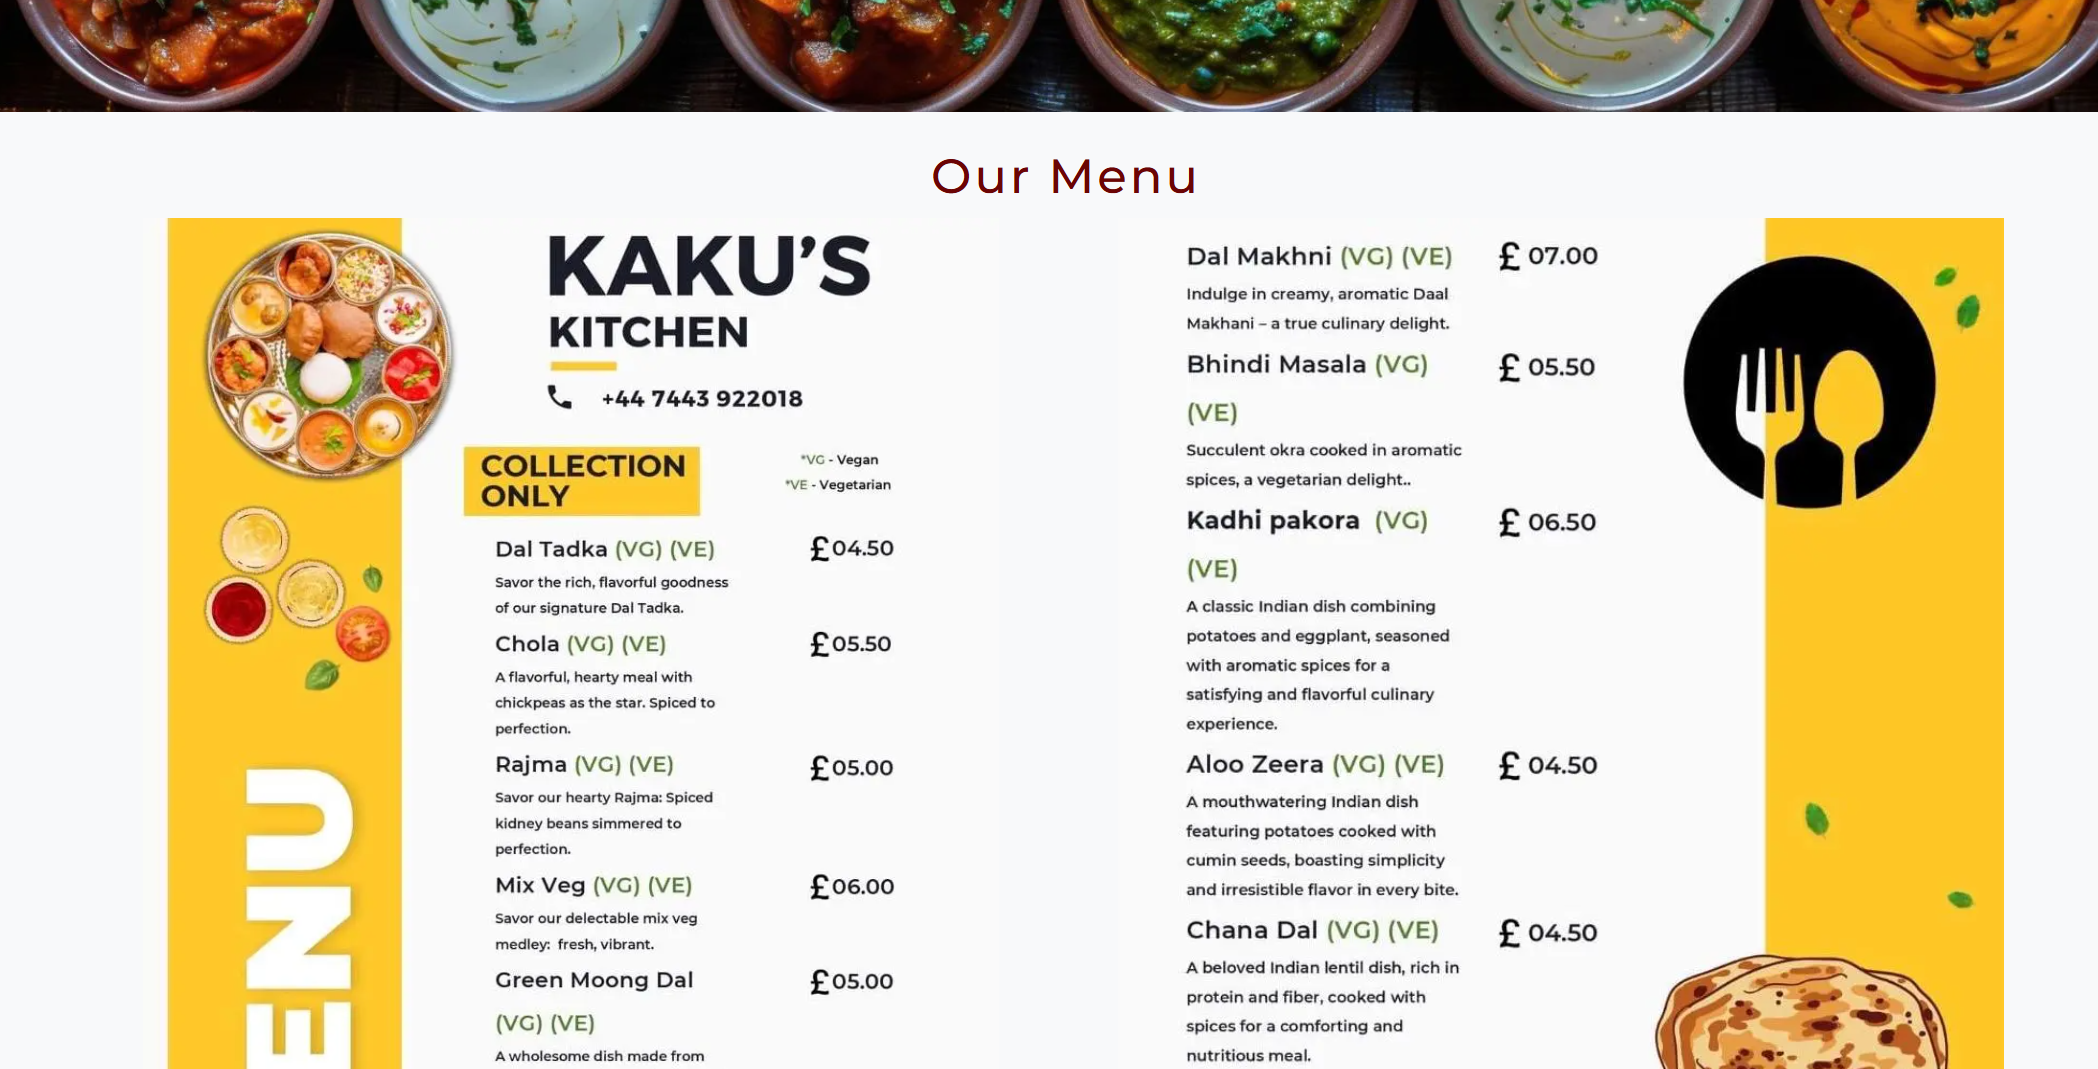
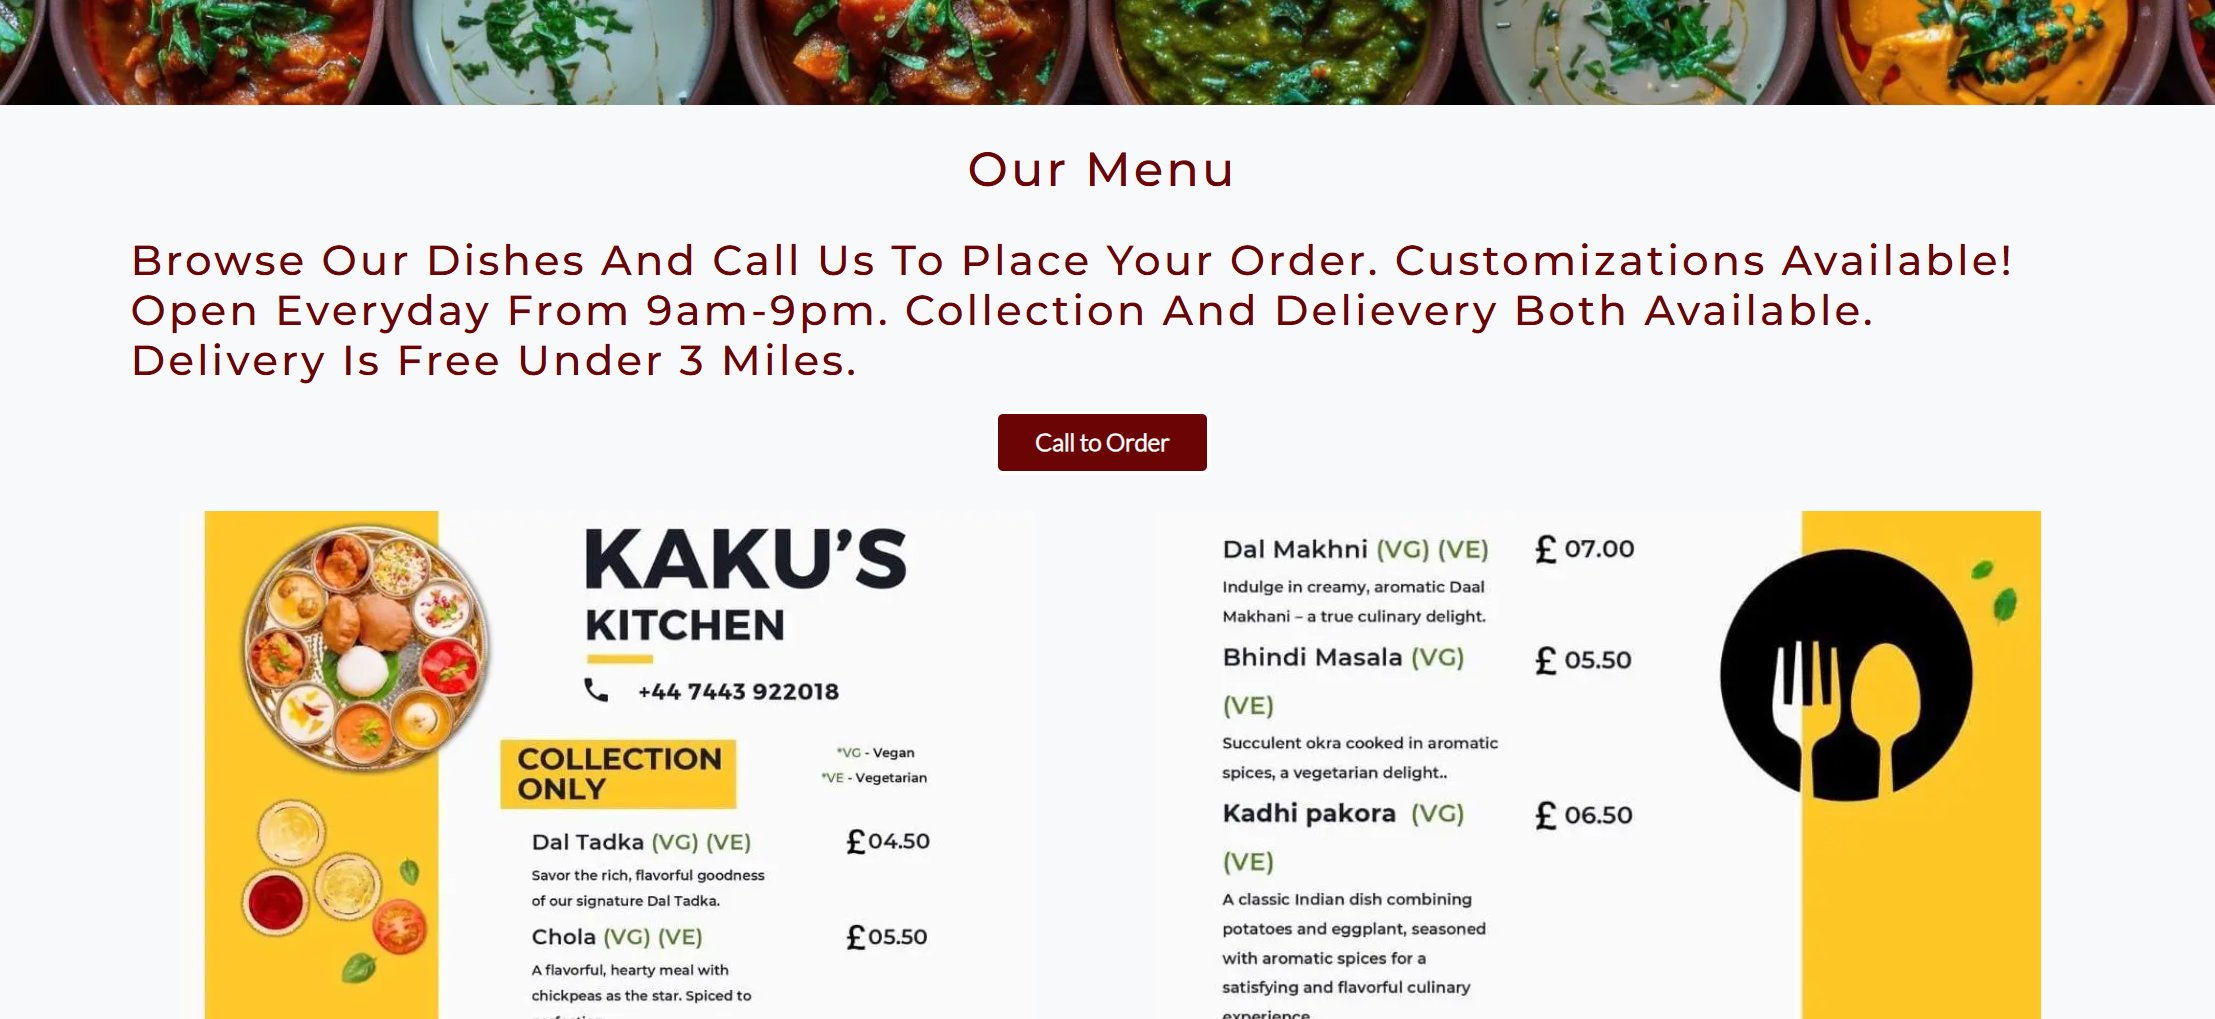
changes in readme document and added how to order in menu page.

diff --git a/about.html b/about.html
@@ -75,24 +75,18 @@
                     <!-- mb-4 used to add margin under text -->
                     <div class="col-12 col-md-8 mb-4" >
                         <p>
-                            <strong>Kaku's Kitchen offers Healthy, Honest-To-Goodness, 100% Vegetarian, Home cooked Indian Food,
-                            delivered Right to your Doorstep!
+                           <strong> Kaku's Kitchen offers Healthy, Honest-To-Goodness, 100% Vegetarian, Home cooked Indian Food,
+                            delivered Right to your Doorstep! Fresh Healthy Food with no compromise in the taste! Thanks for visiting Kaku's Kitchen and we hope to see you soon!<br>
 
-                            Fresh Healthy Food with no compromise in the taste!.</strong>
-                        </p>
-                        <p>
-                        <strong> Thanks for visiting Kaku's Kitchen and we hope to see you soon!
-
-                            We all love good,home cooked food. Our mission is to plan your meals,shop,chop,cook for you.
-                            So all you have to do is to eat! No more grocery shopping,no more cooking and cleaning
+                            <br>We all love good, home cooked food. Our mission is to plan your meals, shop, chop, cook for you.
+                            So all you have to do is to eat! No more grocery shopping, no more cooking and cleaning
                             after. You just sit back and relax after a day's work and just heat and eat your ready
-                            meals.</strong>
-                        </p>
-                        <p >
-                        <strong>We are based in Penarth.
-                            Healthy, Honest-To-Goodness, 100% Vegetarian, Home cooked Indian Food
+                            meals.<br>
+                        
+                            <br>We are based in Penarth. Healthy, Honest-To-Goodness, 100% Vegetarian, Home cooked Indian Food
                             Fresh Healthy Food with no compromise in the taste!
-                            Always order a day in advance�</strong>
+
+                            <br>Always order a day in advance�</strong>
                         </p>
                     </div>
                 </div>

diff --git a/menu.html b/menu.html
@@ -52,6 +52,12 @@
         <section>
             <div class="container">
                 <h2 class="text-center mt-4">our menu</h2>
+                <h3 class="mt-4 mb-3"> Browse our dishes and call us to place your order. Customizations available!
+                    Open everyday from 9am-9pm. Collection and delievery both available. delivery is free under 3 miles.
+                </h3>
+                <div class="d-flex justify-content-center align-items-center mb-4">
+                    <a href="#contact-footer" class="btn custom-button-outline" ><strong>Call to Order</strong></a>
+                  </div>
                 <div class="row image-row text-center">
                     <!-- Column for Image 1 -->
                     <div class="col-12 col-sm-6  mb-3">

diff --git a/index.html b/index.html
@@ -82,7 +82,7 @@
             100% Indian Authentic Vegetarian Food. Just a phone call away.
           </h3>
           <div class="d-flex justify-content-center align-items-center">
-            <a href="#contact-footer" class="btn custom-button-outline" >Call to Order</a>
+            <a href="#contact-footer" class="btn custom-button-outline" ><strong>Call to Order</strong></a>
           </div>
         </div>
       </section>

diff --git a/assets/css/style.css b/assets/css/style.css
@@ -46,7 +46,7 @@ header a {
     color: inherit;
 }
 
-h1, h2, h3, h5{
+h1, h2, h5{
     font-family: 'montserrat', Verdana, sans-serif;
     text-transform:capitalize;
     letter-spacing: 2px;

diff --git a/README.md b/README.md
@@ -5,8 +5,6 @@ Kaku's Kitchen is a 100% Indian vegetarian cloud kitchen based in Penarth, estab
 Deployed via GitHub Pages, this responsive website offers a delightful browsing experience and highlights the charm of authentic Indian vegetarian food.
 
 
-![alt text](documents/am-i-responsive.png)
-
 ## Table of content
 
  1. [Planning](#Planning)
@@ -169,13 +167,13 @@ Easy to read / navigate menu images are used. Prices and ingredients are clearly
 ![Food Menu Image](readme-images/features/foodmenu-image.png)
 
 ### About Us 
-
+Mission and history is provided in about section.
+![About Image](readme-images/features/about-image.png)
 
 ### contact
 Contact page contain a hero image same as home page and about page. In the main section Form has been added on the contact page, where all the validations has been applied.
 ![Form Section](readme-images/features/form-image.png)
   
- 
 ## Colour Scheme
 rgb(107, 4, 4);
 #3a3a3a;
@@ -195,16 +193,16 @@ rgb(107, 4, 4);
 
 This site was deployed through GitHub Pages using the following steps:
 
-Log into GitHub.
-Locate the repository. In my case it is Deepika-Garg/Kaku's Kitchen
-Click the "settings" button.
-Then go to "Pages" tab in the left hand side sidebar.
-Once on the pages site I would ensure the following settings were applied;
-	Source would need to be set to ‘Deploy from branch’
-	Branch will need to be set to main and then root. 
-Click the save button.
+1. Log into GitHub.
+2. Locate the repository. In my case it is Deepika-Garg/Kaku's Kitchen
+3. Click the "settings" button.
+4. Then go to "Pages" tab in the left hand side sidebar.
+5. Once on the pages site I would ensure the following settings were applied
+	5.1.  Source would need to be set to ‘Deploy from branch’
+	5.2.  Branch will need to be set to main and then root. 
+6. Click the save button.
 The site has now been deployed, please note that this process may take a few minutes before the site goes live.
-The page will update and at the top it will say: "Your site is ready to be published at
+7. The page will update and at the top it will say: "Your site is ready to be published at
  https://deepika-garg.github.io/KakusKitchen/
 
 ### Local Development
@@ -366,12 +364,10 @@ Worked as intended.
 
 __Hero call to action button__
 
-![Call to action button on home page]
+![Call to action button on home page](readme-images/testing/ManualTesting/CallToAction.png)
 __Expected__
 
 The user will click on the button which will take them to the contact detail in the footer section.
-
-![Call to Order button](readme-images/testing/ManualTesting/CallToAction.png)
 
 __Results__
 
